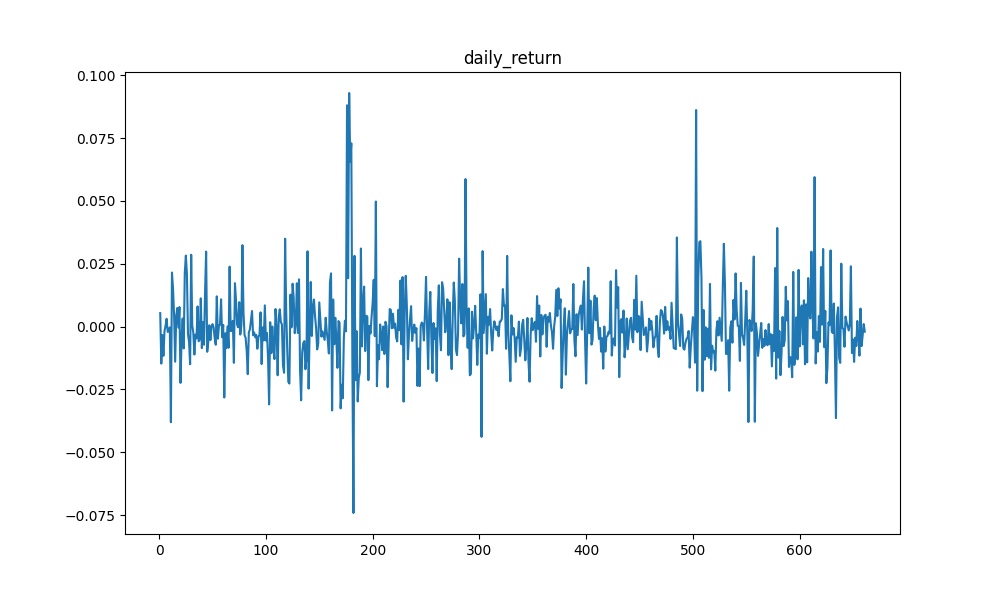
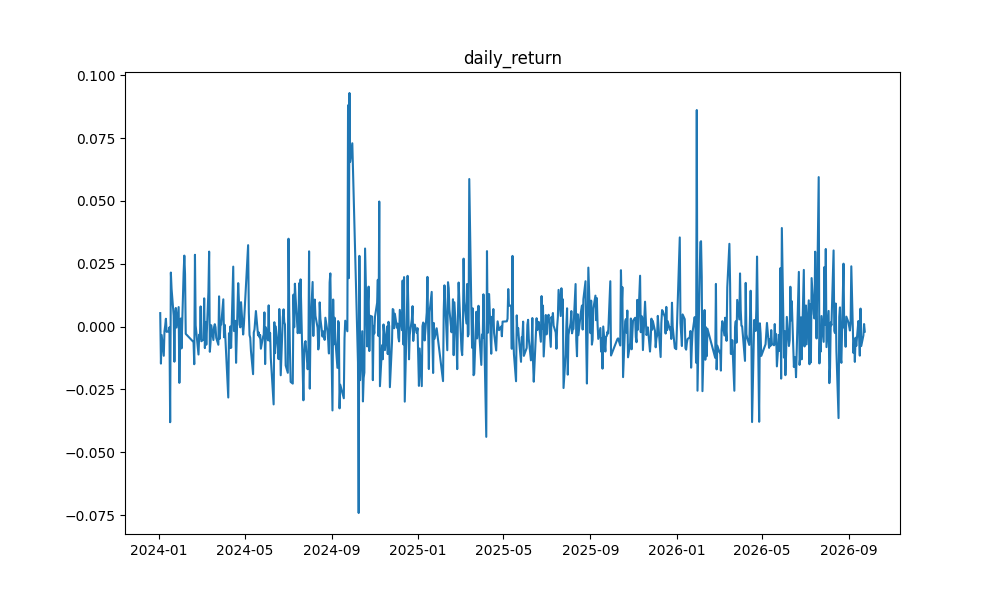
docs:补充了索引，使得图的横坐标修正成日期

diff --git a/python_study/daily_return.py b/python_study/daily_return.py
@@ -12,27 +12,29 @@ adjust = "qfq"
 start_date = "20240101"
 csv_path = Path(__file__).with_name(f"{code}_{adjust}_{start_date}.csv")
 df = pd.read_csv(csv_path)
+df["date"] = pd.to_datetime(df["date"])
+df = df.set_index("date")
 # 加了排序
 # df = df.sort_values('date', ascending=True)
 # 第二步，再理理，我用close来算，要将close的连续两天价格取出来,daily_return要是一个series才行
 # 用循环一个一个去算
 daily_return = []
-for i in range(len(df["date"])):
+for i in range(len(df["close"])):
     daily_return_rate = df["close"].iloc[i]/df["close"].iloc[i-1]-1
     daily_return.append(daily_return_rate)
 print(daily_return)
 
 daily_return_series = pd.Series(daily_return)
-print(daily_return_series)
+print(daily_return_series.head())
 
 # 然后加到df上去，这里好像只是按行数匹配的，df读出来也是按行数取的，所以我应该规范的话，在最前面应该加一个按日期排序
 df["daily_return"] = daily_return_series
-print(df["daily_return"])
+print(df["daily_return"].head())
 
 # 另外的方法，更简便一些
 daily_return = df["close"].pct_change()
 df["daily_return"] = daily_return
-print(df["daily_return"])
+print(df["daily_return"].head())
 
 # 两种算法算出来不对，是哪里错了
 # 第一天的数据错了，第一种方法本来前一天没有数据，它把最后一天当成第一天的前一天了，所以会出现数据，而不是直接nan
